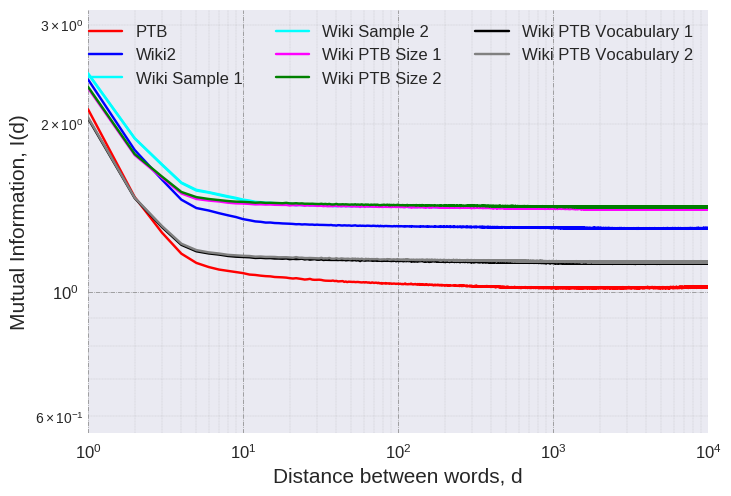
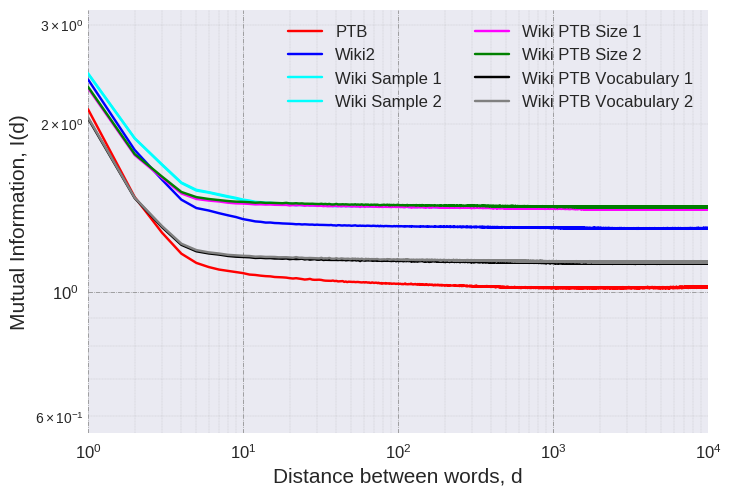
Up

diff --git a/paper_related/plot_words.py b/paper_related/plot_words.py
@@ -52,30 +52,30 @@ for filename in filenames:
 
 with plt.style.context(('seaborn')):
 
-    plt.loglog(np.arange(1,len(all_mi[0])+1), all_mi[0], color='red', linestyle='solid', label="PTB")
+    # plt.loglog(np.arange(1,len(all_mi[0])+1), all_mi[0], color='red', linestyle='solid', label="PTB")
 
-    # plt.loglog(np.arange(1,len(all_mi[1])+1), all_mi[1], color='fuchsia', linestyle='solid', label="Text8")
-    # plt.loglog(np.arange(1,len(all_mi[2])+1), all_mi[2], color='indigo', linestyle='solid', label="Text8 (w/ Rare)")
+    plt.loglog(np.arange(1,len(all_mi[1])+1), all_mi[1], color='fuchsia', linestyle='solid', label="Text8")
+    plt.loglog(np.arange(1,len(all_mi[2])+1), all_mi[2], color='indigo', linestyle='solid', label="Text8 (w/ Rare)")
     # plt.loglog(np.arange(1,len(all_mi[3])+1), all_mi[3], color='pink', linestyle='solid', label="Text8 (Subset)")
     # plt.loglog(np.arange(1,len(all_mi[4])+1), all_mi[4], color='purple', linestyle='solid', label="Text8 (w/ Rare Ssubset)")
 
     plt.loglog(np.arange(1,len(all_mi[5])+1), all_mi[5], color='blue', linestyle='solid', label="Wiki2")
-    # plt.loglog(np.arange(1,len(all_mi[6])+1), all_mi[6], color='darkblue', linestyle='solid', label="Wiki2 (Raw)")
+    plt.loglog(np.arange(1,len(all_mi[6])+1), all_mi[6], color='darkblue', linestyle='solid', label="Wiki2 (Raw)")
     # plt.loglog(np.arange(1,len(all_mi[7])+1), all_mi[7], color='cyan', linestyle='solid', label="Wiki2 (Cleaned)")
 
     # plt.loglog(np.arange(1,len(all_mi[8])+1), all_mi[8], color='brown', linestyle='solid', label="Wiki19")
     # plt.loglog(np.arange(1,len(all_mi[9])+1), all_mi[9], color='khaki', linestyle='solid', label="Wiki19 (Text8)")
 
-    # plt.loglog(np.arange(1,len(all_mi[10])+1), all_mi[10], color='yellowgreen', linestyle='solid', label="Wiki103")
-    # plt.loglog(np.arange(1,len(all_mi[11])+1), all_mi[11], color='darkgreen', linestyle='solid', label="Wiki103 (Raw)")
+    plt.loglog(np.arange(1,len(all_mi[10])+1), all_mi[10], color='yellowgreen', linestyle='solid', label="Wiki103")
+    plt.loglog(np.arange(1,len(all_mi[11])+1), all_mi[11], color='darkgreen', linestyle='solid', label="Wiki103 (Raw)")
     # plt.loglog(np.arange(1,len(all_mi[12])+1), all_mi[12], color='lightgreen', linestyle='solid', label="Wiki103 (Cleaned)")
 
-    plt.loglog(np.arange(1,len(all_mi[13])+1), all_mi[13], color='aqua', linestyle='solid', label="Wiki Sample 1")
-    plt.loglog(np.arange(1,len(all_mi[14])+1), all_mi[14], color='cyan', linestyle='solid', label="Wiki Sample 2")
-    plt.loglog(np.arange(1,len(all_mi[15])+1), all_mi[15], color='magenta', linestyle='solid', label="Wiki PTB Size 1")
-    plt.loglog(np.arange(1,len(all_mi[16])+1), all_mi[16], color='green', linestyle='solid', label="Wiki PTB Size 2")
-    plt.loglog(np.arange(1,len(all_mi[17])+1), all_mi[17], color='black', linestyle='solid', label="Wiki PTB Vocabulary 1")
-    plt.loglog(np.arange(1,len(all_mi[18])+1), all_mi[18], color='grey', linestyle='solid', label="Wiki PTB Vocabulary 2")
+    # plt.loglog(np.arange(1,len(all_mi[13])+1), all_mi[13], color='aqua', linestyle='solid', label="Wiki Sample 1")
+    # plt.loglog(np.arange(1,len(all_mi[14])+1), all_mi[14], color='cyan', linestyle='solid', label="Wiki Sample 2")
+    # plt.loglog(np.arange(1,len(all_mi[15])+1), all_mi[15], color='magenta', linestyle='solid', label="Wiki PTB Size 1")
+    # plt.loglog(np.arange(1,len(all_mi[16])+1), all_mi[16], color='green', linestyle='solid', label="Wiki PTB Size 2")
+    # plt.loglog(np.arange(1,len(all_mi[17])+1), all_mi[17], color='black', linestyle='solid', label="Wiki PTB Vocabulary 1")
+    # plt.loglog(np.arange(1,len(all_mi[18])+1), all_mi[18], color='grey', linestyle='solid', label="Wiki PTB Vocabulary 2")
 
     # plt.loglog(np.arange(1,len(all_mi[19])+1), all_mi[19], color='yellow', linestyle='solid', label="German Text")
 
@@ -90,6 +90,6 @@ with plt.style.context(('seaborn')):
     print(ax.get_ylim())
     ax.set_xlabel('Distance between words, d', fontsize=15)
     ax.set_ylabel('Mutual Information, I(d)', fontsize=15)
-    lgd = ax.legend(loc='upper right', shadow=True, fancybox=True, ncol=3, numpoints=1, prop={'size': 12})
-    plt.savefig('lm_words_ptb_type', bbox_extra_artists=(lgd,), bbox_inches='tight')
+    lgd = ax.legend(loc='upper right', shadow=True, fancybox=True, ncol=2, numpoints=1, prop={'size': 12})
+    plt.savefig('lm_words_raw', bbox_extra_artists=(lgd,), bbox_inches='tight')
     plt.show()
